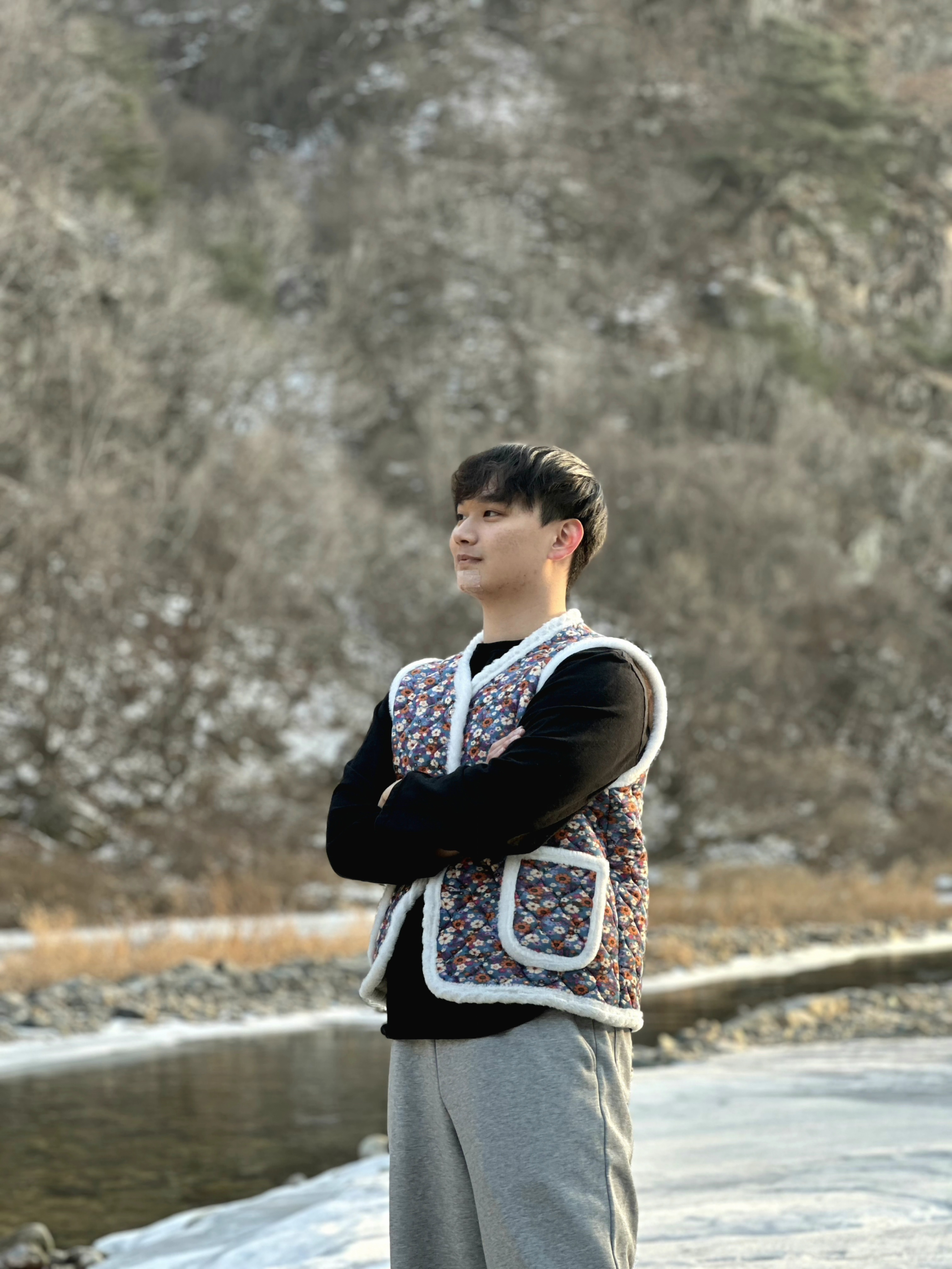
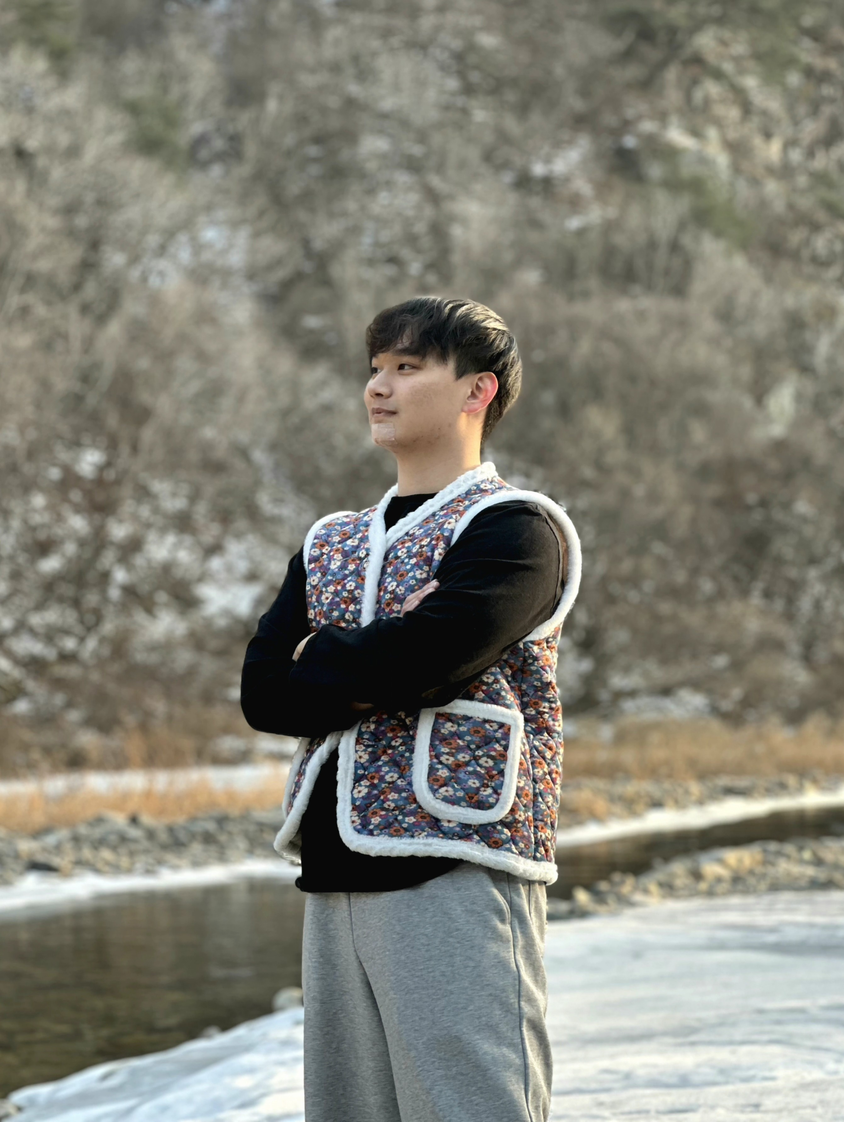
profil update

diff --git a/_pages/about.md b/_pages/about.md
@@ -62,7 +62,7 @@ My goal is to bridge the gap between theoretical control guarantees and practica
 
 ### **Contact**
 
-* **Email:** 12200617@inha.edu
+* **Email:** hjunlee525@gmail.com
 * **Address:** Inha Aerospace Campus, 36 Gaetbeol-ro, Yeonsu-gu, Incheon 21999, Republic of Korea
 
 ---
